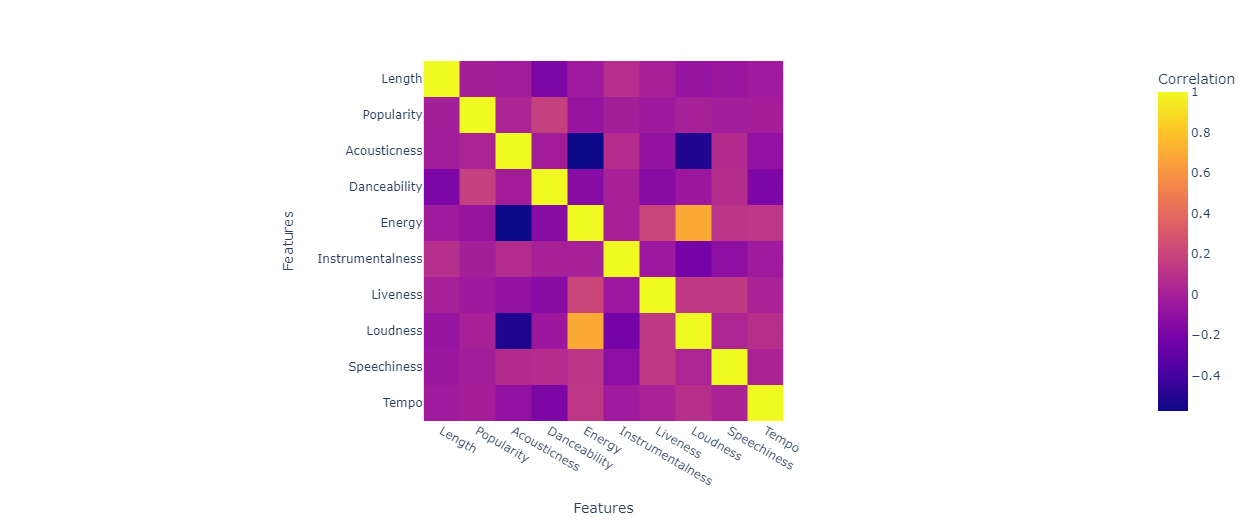
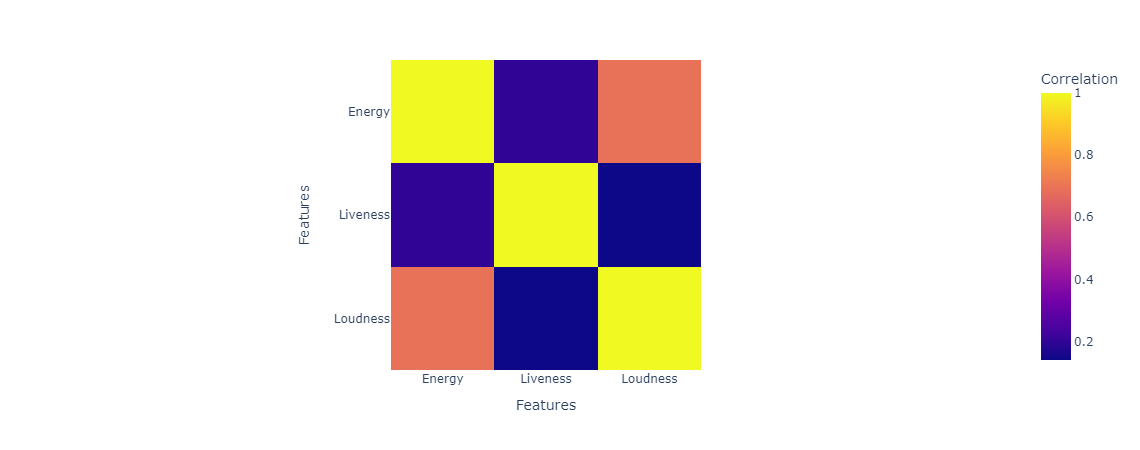
Tweaks in README(s) & QA post-Docker integration

diff --git a/reports/flake8/index.html b/reports/flake8/index.html
@@ -9,7 +9,7 @@
       <div id="masthead" class="sev-4"></div>
       <div id="page">
           <h1>flake8 violations</h1>
-         <p id="versions">Generated on 2023-11-30 13:07
+         <p id="versions">Generated on 2023-12-08 15:28
             with Installed plugins: flake8-html: 0.4.3, mccabe: 0.7.0, pycodestyle: 2.11.1, pyflakes: 3.1.0
          </p>
          <ul id="index">

diff --git a/src/data/extract_data.py b/src/data/extract_data.py
@@ -4,14 +4,14 @@
 import sys  # noqa:E402
 sys.path.append('src')  # noqa:E402
 import zipfile as zf  # noqa:E402
+from codecarbon import EmissionsTracker  # noqa:E402
 import files_utilities as flUt  # noqa:E402
 import spotipy_utilities as spUt  # noqa:E402
 import conf  # noqa:E402
-from codecarbon import EmissionsTracker  # noqa:E402
 # pylint: enable=wrong-import-position
 
 
-# Codecarbon tracker instance 
+# Codecarbon tracker instance
 tracker = EmissionsTracker(
         project_name="_DATA_EXTRACTION_",
         output_file=conf.CODECARBON_REPORT_PATH,

diff --git a/src/models/clustering.py b/src/models/clustering.py
@@ -7,8 +7,8 @@ sys.path.append('src')                      # noqa:E402
 import pandas as pd                         # noqa:E402
 from sklearn_extra.cluster import KMedoids  # noqa:E402
 from joblib import dump                     # noqa:E402
-import conf                                 # noqa:E402
 from codecarbon import EmissionsTracker     # noqa:E402
+import conf                                 # noqa:E402
 # pylint: enable=wrong-import-position
 
 

diff --git a/src/models/recommend.py b/src/models/recommend.py
@@ -5,9 +5,9 @@ sys.path.append('src')  # noqa:E402
 import random  # noqa:E402
 import numpy as np  # noqa:E402
 import pandas as pd  # noqa:E402
+from codecarbon import EmissionsTracker     # noqa:E402
 import conf  # noqa:E402
 import spotipy_utilities as spUt  # noqa:E402
-from codecarbon import EmissionsTracker     # noqa:E402
 # pylint: enable=wrong-import-position
 
 

diff --git a/src/features/preprocessing.py b/src/features/preprocessing.py
@@ -5,8 +5,8 @@ import os    # noqa:E402
 import sys  # noqa:E402
 sys.path.append('src')  # noqa:E402
 import pandas as pd  # noqa:E402
-import conf  # noqa:E402
 from codecarbon import EmissionsTracker  # noqa:E402
+import conf  # noqa:E402
 # pylint: enable=wrong-import-position
 
 

diff --git a/README.md b/README.md
@@ -117,6 +117,10 @@ Github Actions has been integrated, and you can discover further information [he
 
 Docker has been integrated, and you can discover further information [here](docker/README.md).
 
+## GreenAI - Code Carbon
+
+Code Carbon has been integrated, and you can discover further information in the last section of our [Model Card](models/README.md).
+
 ## Citation
 
 ```bibtex
@@ -148,7 +152,7 @@ url = {https://github.com/se4ai2324-uniba/MusicExpress}
     │   └── raw            <- The original, immutable data dump
     │
     ├── docker             <- Docker files
-    │   └── Dockerfile       <- Docker image of our system (interact with API)
+    │   └── Dockerfile     <- Docker image of our system (interact with API)
     │
     ├── docs               <- A default Sphinx project; see sphinx-doc.org for details
     │
@@ -159,11 +163,12 @@ url = {https://github.com/se4ai2324-uniba/MusicExpress}
     ├── references         <- Data dictionaries, manuals, and all other explanatory materials.
     │
     ├── reports            <- Generated analysis as HTML, PDF, LaTeX, etc
-    │   ├── deepchecks        <- Deepchecks generated HTML pages for data integrity
+    │   ├── codecarbo      <- Codecarbon generated emission report
+    │   ├── deepchecks     <- Deepchecks generated HTML pages for data integrity
     │   ├── figures        <- Generated graphics and figures to be used in reporting
-    │   ├── flake8        <- Flake8 generated HTML page for quality assessment (QA)
-    │   ├── pylint        <- Pylint reports for quality assessment (QA)
-    │   └── pynblint        <- Pynblint reports for quality assessment (QA)
+    │   ├── flake8         <- Flake8 generated HTML page for quality assessment (QA)
+    │   ├── pylint         <- Pylint reports for quality assessment (QA)
+    │   └── pynblint       <- Pynblint reports for quality assessment (QA)
     │
     ├── requirements.txt   <- The requirements file for reproducing the analysis environment
     │
@@ -171,7 +176,7 @@ url = {https://github.com/se4ai2324-uniba/MusicExpress}
     ├
     ├── src                <- Source code for use in this project
     │   │
-    │   ├── api           <- Scripts containing API endpoints
+    │   ├── api            <- Scripts containing API endpoints
     │   │   └── main.py
     │   │   └── schemas.py
     │   │
@@ -187,7 +192,7 @@ url = {https://github.com/se4ai2324-uniba/MusicExpress}
     │   │   ├── recommend.py
     │   │   └── metrics.py
     │   │
-    │   ├── tests         <- Test scripts
+    │   ├── tests          <- Test scripts
     │   │   ├── pytest
     │   │   │   │
     │   │   │   ├── test_api.ipynb
@@ -202,12 +207,12 @@ url = {https://github.com/se4ai2324-uniba/MusicExpress}
     │   │
     │   │── visualization  <- Scripts to create exploratory and results oriented visualizations
     │   │
-    │   │── conf.py    <- Variables used in all the other scripts
-    │   │── files_utilities.py    <- Methods for file operations
-    │   │── great_expectations_utilities.py    <- Methods for file operations
-    │   └── spotipy_utilities.py    <- Methods that make use of Spotipy features
+    │   │── conf.py                             <- Variables used in all the other scripts
+    │   │── files_utilities.py                  <- Methods for file operations
+    │   │── great_expectations_utilities.py     <- Methods for file operations
+    │   └── spotipy_utilities.py                <- Methods that make use of Spotipy features
     │
-    ├── compose.yaml          <- Docker-compose file
+    ├── compose.yaml       <- Docker-compose file
     └── tox.ini            <- tox file with settings for running tox; see tox.readthedocs.io
 
 ---

diff --git a/data/README.md b/data/README.md
@@ -10,16 +10,13 @@ With this data we want to provide the users with some personalized suggestions i
 
 The Spotipy library ([Spotipy](https://spotipy.readthedocs.io/en/2.22.1/)) is used to extract both the songs and their features from the Spotify playlists. Here is a brief description of each feature extracted using Spotipy:
 
-| Feature          | Description                                                          |
-| ---------------- | -------------------------------------------------------------------- |
-| Acousticness     | Acoustic quality of a track                                          |
-| Danceability     | Suitability of a track for dancing based on various musical elements |
-| Energy           | Intensity and activity level of a track                              |
-| Instrumentalness | Likelihood of a track being instrumental                             |
-| Liveness         | Presence of a live audience in a track                               |
-| Loudness         | Overall volume of a track in decibels (dB)                           |
-| Speechiness      | Presence of spoken words in a track                                  |
-| Tempo            | Overall speed or pace of a track measured in beats per minute (BPM)  |
+| Feature  | Description                                |
+| -------- | ------------------------------------------ |
+| Energy   | Intensity and activity level of a track    |
+| Liveness | Presence of a live audience in a track     |
+| Loudness | Overall volume of a track in decibels (dB) |
+
+Additional information on extracting various features is accessible in the [Spotify API documentation](https://developer.spotify.com/documentation/web-api/reference/get-audio-features).
 
 ## Dataset Example
 
@@ -35,4 +32,4 @@ The goal was to identify the two features with the highest correlation and selec
 
 ![plot](/figures/corrMatrixExample.png?raw=true)
 
-Most of the features are not significantly related to each other. Following the goal‘s criteria, a subset of only three features (**Loudness, Energy, Liveness**) was adopted due to a noticeable correlation between the Loudness and Energy features and a minor correlation between both the Loudness and Energy features with the Liveness feature.
+Following the goal‘s criteria, all the three features (**Loudness, Energy, Liveness**) were adopted due to a noticeable correlation between the Loudness and Energy features and a minor correlation between both the Loudness and Energy features with the Liveness feature.

diff --git a/src/api/README.md b/src/api/README.md
@@ -31,4 +31,8 @@ This interface dynamically documents the available endpoints, their input parame
 
 ![plot](/figures/fastapi_swagger_example.png?raw=true)
 
+Moreover, we provide an example of a potential outcome from the preceding endpoint:
+
+![plot](/figures/fastapi_swagger_result_example.png?raw=true)
+
 More information about this tool can be found [here](https://fastapi.tiangolo.com/).
